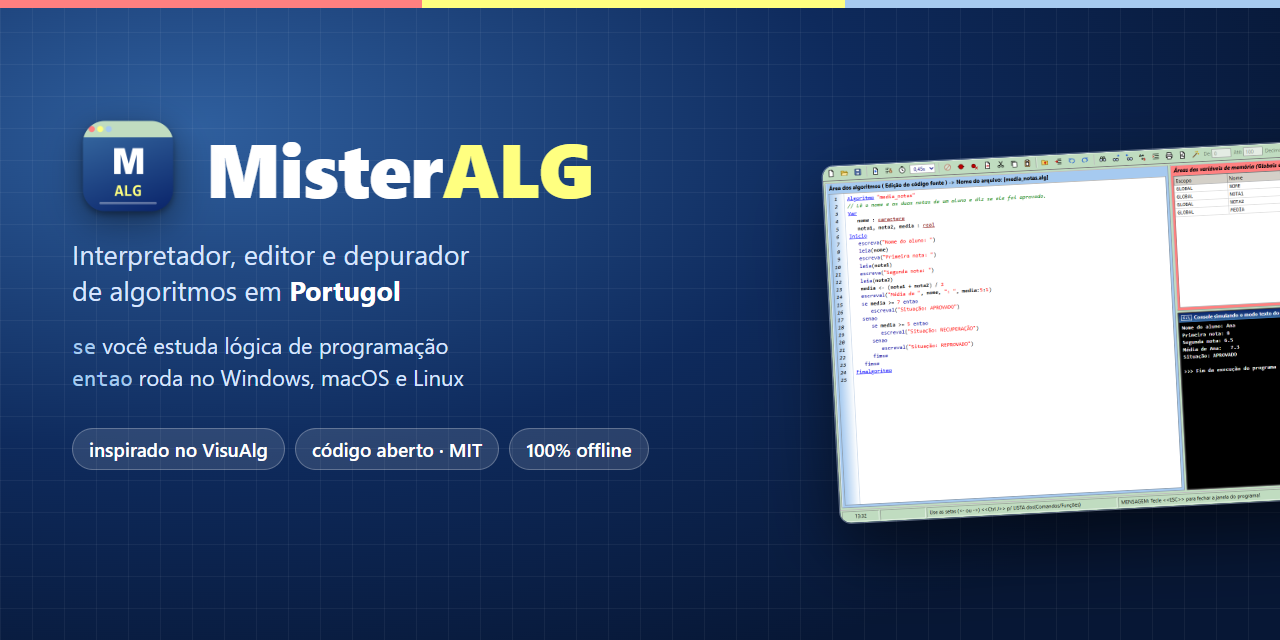
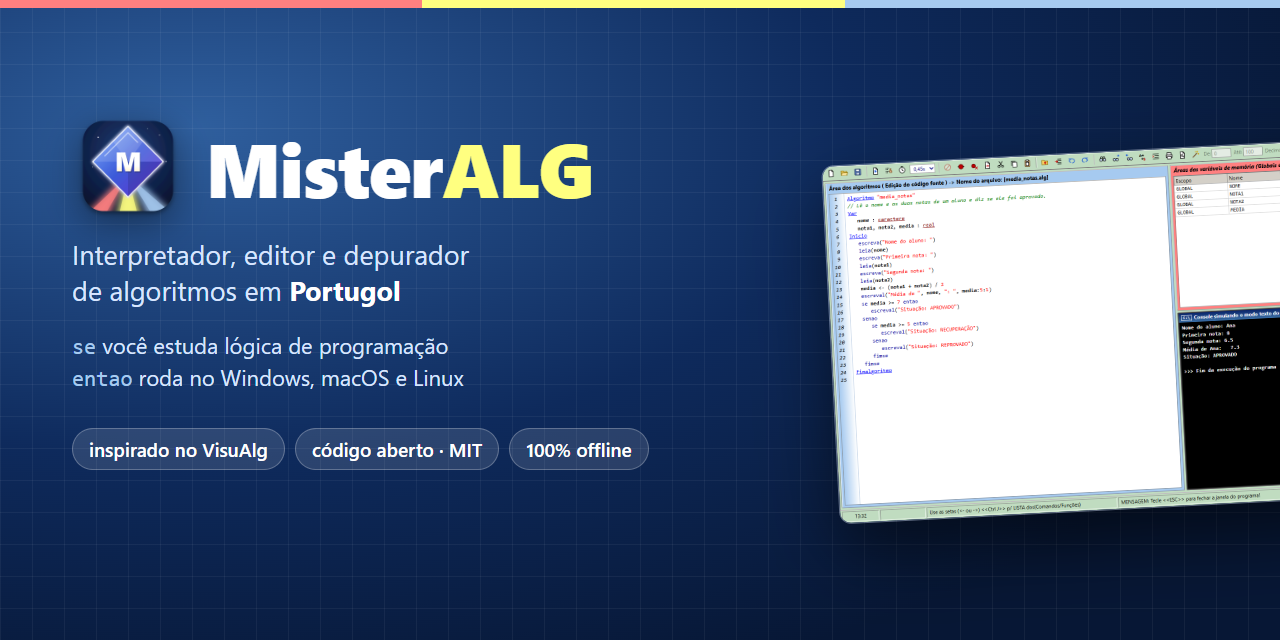
Ícone novo: Diamante de Decisão (v1.4.1)
O losango de decisão dos fluxogramas, com os três feixes nas cores dos painéis do VisuAlg. Gerado por scripts/gerar-icones-conceito.mjs (os outros dois conceitos ficam em docs/imagens/icones). Banner e prévia social regenerados.

Changed region(s): [[0.0625, 0.1875, 0.1562, 0.3438]]

diff --git a/app/src/renderer/main.js b/app/src/renderer/main.js
@@ -1,4 +1,4 @@
-// IDE do MisterALG: junta editor, execução, busca, arquivos, barra e menus.
+// IDE do MisterALG: junta editor, execuÃ§Ã£o, busca, arquivos, barra e menus.
 
 import { abrirAjuda } from './ajuda.js'
 import { criarBusca } from './busca.js'
@@ -10,10 +10,10 @@ import { ICONES } from './icones.js'
 
 const api = window.misteralg
 const $ = (sel) => document.querySelector(sel)
-const VERSAO = '1.4.0'
+const VERSAO = '1.4.1'
 // Termos de uso: o mesmo texto que o instalador do Windows exibe (app/build/termos.txt).
 import TEXTO_TERMOS from '../../build/termos.txt?raw'
-const TERMOS = TEXTO_TERMOS.replace(/^/, '').replace(/\r\n/g, '\n')
+const TERMOS = TEXTO_TERMOS.replace(/^ï»¿/, '').replace(/\r\n/g, '\n')
 const VERSAO_TERMOS = '1.4'
 
 let prefs = await api.prefs.ler()
@@ -40,8 +40,8 @@ document.addEventListener('mouseover', (e) => {
 
 function atualizarTitulo() {
   const arquivo = doc.caminho ? doc.caminho.split(/[\\/]/).pop() : doc.nome
-  $('#titulo-editor').textContent = `Área dos algoritmos ( Edição do código fonte ) -> Nome do arquivo: [${arquivo}]`
-  api.janela.titulo(`MisterALG — ${arquivo}${doc.modificado ? ' (modificado)' : ''}`)
+  $('#titulo-editor').textContent = `Ãrea dos algoritmos ( EdiÃ§Ã£o do cÃ³digo fonte ) -> Nome do arquivo: [${arquivo}]`
+  api.janela.titulo(`MisterALG â€” ${arquivo}${doc.modificado ? ' (modificado)' : ''}`)
   status.estado()
 }
 
@@ -68,14 +68,14 @@ function carregar({ texto, caminho = null, codificacao = 'windows-1252', nome = 
   editor.focar()
 }
 
-/** Pergunta se deve salvar. Devolve false se o usuário cancelou. */
+/** Pergunta se deve salvar. Devolve false se o usuÃ¡rio cancelou. */
 async function podeDescartar(titulo) {
   if (!doc.modificado) return true
   const r = await api.mensagem({
     type: 'question',
     title: titulo,
-    message: `O algoritmo [${doc.nome}] foi modificado. Deseja salvá-lo ?`,
-    buttons: ['Sim', 'Não', 'Cancelar'],
+    message: `O algoritmo [${doc.nome}] foi modificado. Deseja salvÃ¡-lo ?`,
+    buttons: ['Sim', 'NÃ£o', 'Cancelar'],
     defaultId: 0,
     cancelId: 2,
   })
@@ -95,7 +95,7 @@ async function salvar(comoNovo = false) {
   doc.nome = r.caminho.split(/[\\/]/).pop().replace(/\.[^.]+$/, '')
   doc.modificado = false
   atualizarTitulo()
-  status.mensagem(' MENSAGEM: Pronto! * Este algoritmo está salvo *')
+  status.mensagem(' MENSAGEM: Pronto! * Este algoritmo estÃ¡ salvo *')
   api.recuperacao.limpar()
   return true
 }
@@ -111,7 +111,7 @@ async function abrirResultado(lido) {
 
 const pastaAtual = () => (doc.caminho ? doc.caminho.replace(/[\\/][^\\/]*$/, '') : null)
 
-// ---- execução e busca ---------------------------------------------------------------
+// ---- execuÃ§Ã£o e busca ---------------------------------------------------------------
 
 execucao = criarExecucao({
   editor,
@@ -152,7 +152,7 @@ const comandos = {
     const escapar = (s) => s.replace(/[&<>]/g, (c) => ({ '&': '&amp;', '<': '&lt;', '>': '&gt;' })[c])
     const html = `<!doctype html><meta charset="utf-8"><title>${escapar(doc.nome)}</title>
       <style>body{font:11pt Menlo,monospace}pre{white-space:pre-wrap}</style>
-      <pre>// Arquivo com um algoritmo: ${escapar(doc.caminho ?? doc.nome)}\n// Data de impressão: ${new Date().toLocaleString('pt-BR')}\n\n${escapar(editor.texto())}</pre>`
+      <pre>// Arquivo com um algoritmo: ${escapar(doc.caminho ?? doc.nome)}\n// Data de impressÃ£o: ${new Date().toLocaleString('pt-BR')}\n\n${escapar(editor.texto())}</pre>`
     return api.imprimir({ html })
   },
   sair: async () => {
@@ -191,7 +191,7 @@ const comandos = {
   aleatorio: () => alternarAleatorio(),
   perfil: () => execucao.mostrarPerfil(),
   pilha: () => execucao.mostrarPilha(),
-  'exportar-pascal': () => api.mensagem({ type: 'info', title: 'MisterALG', message: 'A ser implementado em futuras versões.' }),
+  'exportar-pascal': () => api.mensagem({ type: 'info', title: 'MisterALG', message: 'A ser implementado em futuras versÃµes.' }),
   configuracoes: async () => {
     const novas = await dialogos.configuracoes(prefs)
     if (novas) {
@@ -208,7 +208,7 @@ const comandos = {
   termos: () => dialogos.termos(TERMOS),
 }
 
-// Com um diálogo aberto só valem os comandos de edição de texto.
+// Com um diÃ¡logo aberto sÃ³ valem os comandos de ediÃ§Ã£o de texto.
 const PERMITIDOS_COM_DIALOGO = new Set(['desfazer', 'refazer', 'cortar', 'copiar', 'colar', 'sair'])
 
 function rodar(id, dados) {
@@ -221,42 +221,42 @@ api.menu.aoComando(rodar)
 // ---- barra de ferramentas -----------------------------------------------------------
 
 const BARRA = [
-  ['novo', 'novo', 'Botão Novo (⌘N)'],
-  ['abrir', 'abrir', 'Botão Abrir (⌘O)'],
-  ['salvar', 'salvar', 'Botão Salvar (⌘S)'],
+  ['novo', 'novo', 'BotÃ£o Novo (âŒ˜N)'],
+  ['abrir', 'abrir', 'BotÃ£o Abrir (âŒ˜O)'],
+  ['salvar', 'salvar', 'BotÃ£o Salvar (âŒ˜S)'],
   '|',
-  ['executar', 'executar', 'Botão Executar (F9)'],
-  ['passo', 'passo', 'Botão Passo a Passo (F8)'],
+  ['executar', 'executar', 'BotÃ£o Executar (F9)'],
+  ['passo', 'passo', 'BotÃ£o Passo a Passo (F8)'],
   ['timer', 'timer', 'Executar com Timer (Tempo) (Shift+F9)'],
   'intervalo',
   '|',
-  ['parar', 'parar', 'Botão Parar (Ctrl+F2)'],
-  ['breakpoint', 'breakpoint', 'Botão Liga/desliga breakpoint (F5)'],
-  ['limpar-breakpoints', 'limparBreakpoints', 'Botão Desmarca todos os breakpoints (Ctrl+F5)'],
-  ['restaurar', 'restaurar', 'Botão Restaura a tela inicial do MisterALG'],
-  ['cortar', 'cortar', 'Botão Cortar (⌘X)'],
-  ['copiar', 'copiar', 'Botão Copiar (⌘C)'],
-  ['colar', 'colar', 'Botão Colar (⌘V)'],
+  ['parar', 'parar', 'BotÃ£o Parar (Ctrl+F2)'],
+  ['breakpoint', 'breakpoint', 'BotÃ£o Liga/desliga breakpoint (F5)'],
+  ['limpar-breakpoints', 'limparBreakpoints', 'BotÃ£o Desmarca todos os breakpoints (Ctrl+F5)'],
+  ['restaurar', 'restaurar', 'BotÃ£o Restaura a tela inicial do MisterALG'],
+  ['cortar', 'cortar', 'BotÃ£o Cortar (âŒ˜X)'],
+  ['copiar', 'copiar', 'BotÃ£o Copiar (âŒ˜C)'],
+  ['colar', 'colar', 'BotÃ£o Colar (âŒ˜V)'],
   '|',
-  ['gravar-bloco', 'gravarBloco', 'Botão Grava o bloco de texto selecionado (Ctrl+W)'],
-  ['inserir-bloco', 'inserirBloco', 'Botão Insere um bloco de algoritmo na posição do cursor (Ctrl+R)'],
-  ['desfazer', 'desfazer', 'Botão Desfazer (⌘Z)'],
-  ['refazer', 'refazer', 'Botão Refazer (Shift+⌘Z)'],
+  ['gravar-bloco', 'gravarBloco', 'BotÃ£o Grava o bloco de texto selecionado (Ctrl+W)'],
+  ['inserir-bloco', 'inserirBloco', 'BotÃ£o Insere um bloco de algoritmo na posiÃ§Ã£o do cursor (Ctrl+R)'],
+  ['desfazer', 'desfazer', 'BotÃ£o Desfazer (âŒ˜Z)'],
+  ['refazer', 'refazer', 'BotÃ£o Refazer (Shift+âŒ˜Z)'],
   '|',
-  ['localizar', 'localizar', 'Botão Localizar (⌘F ou Ctrl+L)'],
-  ['localizar-proximo', 'proximo', 'Botão Localizar o próximo (F3)'],
-  ['localizar-anterior', 'anterior', 'Botão Localizar o anterior (F4)'],
-  ['substituir', 'substituir', 'Botão Substituir (⌥⌘F ou Ctrl+U)'],
-  ['indentar', 'indentar', 'Botão Corrigir indentação (Ctrl+G)'],
-  ['imprimir', 'imprimir', 'Botão Imprimir (⌘P)'],
-  ['perfil', 'perfil', 'Botão Perfil (F7)'],
-  ['aleatorio', 'aleatorio', 'Botão Ativa/Desativa Aleatório'],
+  ['localizar', 'localizar', 'BotÃ£o Localizar (âŒ˜F ou Ctrl+L)'],
+  ['localizar-proximo', 'proximo', 'BotÃ£o Localizar o prÃ³ximo (F3)'],
+  ['localizar-anterior', 'anterior', 'BotÃ£o Localizar o anterior (F4)'],
+  ['substituir', 'substituir', 'BotÃ£o Substituir (âŒ¥âŒ˜F ou Ctrl+U)'],
+  ['indentar', 'indentar', 'BotÃ£o Corrigir indentaÃ§Ã£o (Ctrl+G)'],
+  ['imprimir', 'imprimir', 'BotÃ£o Imprimir (âŒ˜P)'],
+  ['perfil', 'perfil', 'BotÃ£o Perfil (F7)'],
+  ['aleatorio', 'aleatorio', 'BotÃ£o Ativa/Desativa AleatÃ³rio'],
   'faixa',
   '|',
-  ['pilha', 'pilha', 'Botão Mostra a pilha de ativação dos procedimentos e funções (Ctrl+F3)'],
-  ['calculadora', 'calculadora', 'Mostra uma calculadora prática'],
-  ['calendario', 'calendario', 'Mostra um calendário do ano atual'],
-  ['ajuda-tela', 'ajuda', 'Botão Ajuda on-line (F1)'],
+  ['pilha', 'pilha', 'BotÃ£o Mostra a pilha de ativaÃ§Ã£o dos procedimentos e funÃ§Ãµes (Ctrl+F3)'],
+  ['calculadora', 'calculadora', 'Mostra uma calculadora prÃ¡tica'],
+  ['calendario', 'calendario', 'Mostra um calendÃ¡rio do ano atual'],
+  ['ajuda-tela', 'ajuda', 'BotÃ£o Ajuda on-line (F1)'],
   ['sair', 'sair', 'Sair do MisterALG'],
 ]
 
@@ -266,10 +266,10 @@ const ehMac = api.plataforma === 'darwin'
 function dicaDaPlataforma(dica) {
   if (ehMac) return dica
   return dica
-    .replace(' (⌘F ou Ctrl+L)', ' (Ctrl+L)')
-    .replace(' (⌥⌘F ou Ctrl+U)', ' (Ctrl+U)')
-    .replace('⌘O', 'Ctrl+A')
-    .replace('⌘', 'Ctrl+')
+    .replace(' (âŒ˜F ou Ctrl+L)', ' (Ctrl+L)')
+    .replace(' (âŒ¥âŒ˜F ou Ctrl+U)', ' (Ctrl+U)')
+    .replace('âŒ˜O', 'Ctrl+A')
+    .replace('âŒ˜', 'Ctrl+')
 }
 
 function montarBarra() {
@@ -310,9 +310,9 @@ function montarBarra() {
         span.append(lab, input)
         barra.append(span)
       }
-      campo('De:', 'de', 'Digita o valor aleatório inicial')
-      campo('Até:', 'ate', 'Digita o valor aleatório final')
-      campo('Decimais:', 'decimais', 'Digita as casas decimais do valor aleatório', [0, 1, 2, 3, 4, 5])
+      campo('De:', 'de', 'Digita o valor aleatÃ³rio inicial')
+      campo('AtÃ©:', 'ate', 'Digita o valor aleatÃ³rio final')
+      campo('Decimais:', 'decimais', 'Digita as casas decimais do valor aleatÃ³rio', [0, 1, 2, 3, 4, 5])
     } else {
       const [id, icone] = item
       const dica = dicaDaPlataforma(item[2])
@@ -339,7 +339,7 @@ function alternarAleatorio() {
   api.menu.estado({ aleatorio: aleatorioLigado })
 }
 
-// ---- atalhos originais do VisuAlg que não estão no menu do Mac ----------------------------
+// ---- atalhos originais do VisuAlg que nÃ£o estÃ£o no menu do Mac ----------------------------
 
 document.addEventListener('keydown', (e) => {
   const comando = (() => {
@@ -359,19 +359,19 @@ document.addEventListener('keydown', (e) => {
 
 $('#console-fechar').addEventListener('click', () => (execucao.emExecucao() ? execucao.parar() : execucao.fecharConsole()))
 
-// ---- recuperação após falha (visualg3.tmp) ------------------------------------------------
+// ---- recuperaÃ§Ã£o apÃ³s falha (visualg3.tmp) ------------------------------------------------
 
 setInterval(() => {
   if (doc.modificado) api.recuperacao.gravar({ texto: editor.texto(), caminho: doc.caminho, nome: doc.nome, codificacao: doc.codificacao })
 }, 5000)
 
-// ---- início ----------------------------------------------------------------------------------
+// ---- inÃcio ----------------------------------------------------------------------------------
 
 montarBarra()
 editor.aplicarPrefs(prefs)
 
-// No Windows instalado, os termos já foram aceitos no instalador. No Mac, no
-// Linux e na versão portátil, o aceite acontece aqui, na primeira abertura.
+// No Windows instalado, os termos jÃ¡ foram aceitos no instalador. No Mac, no
+// Linux e na versÃ£o portÃ¡til, o aceite acontece aqui, na primeira abertura.
 const precisaAceiteNoApp = ehMac || api.plataforma === 'linux' || api.portatil
 if (precisaAceiteNoApp && prefs.termosAceitos !== VERSAO_TERMOS) {
   if (await dialogos.termos(TERMOS, true)) {
@@ -390,8 +390,8 @@ if (pendente) {
   const r = await api.mensagem({
     type: 'question',
     title: 'Falha!',
-    message: 'O MisterALG não foi terminado corretamente da última vez que foi executado. Deseja recuperar o algoritmo que estava sendo editado?',
-    buttons: ['Sim', 'Não'],
+    message: 'O MisterALG nÃ£o foi terminado corretamente da Ãºltima vez que foi executado. Deseja recuperar o algoritmo que estava sendo editado?',
+    buttons: ['Sim', 'NÃ£o'],
     defaultId: 0,
     cancelId: 1,
   })
@@ -406,5 +406,5 @@ if (pendente) {
   carregar({ texto: esqueleto(prefs) })
 }
 
-// Para testes automatizados e depuração no DevTools.
+// Para testes automatizados e depuraÃ§Ã£o no DevTools.
 window.__misteralg = { editor, execucao, doc, comandos }
